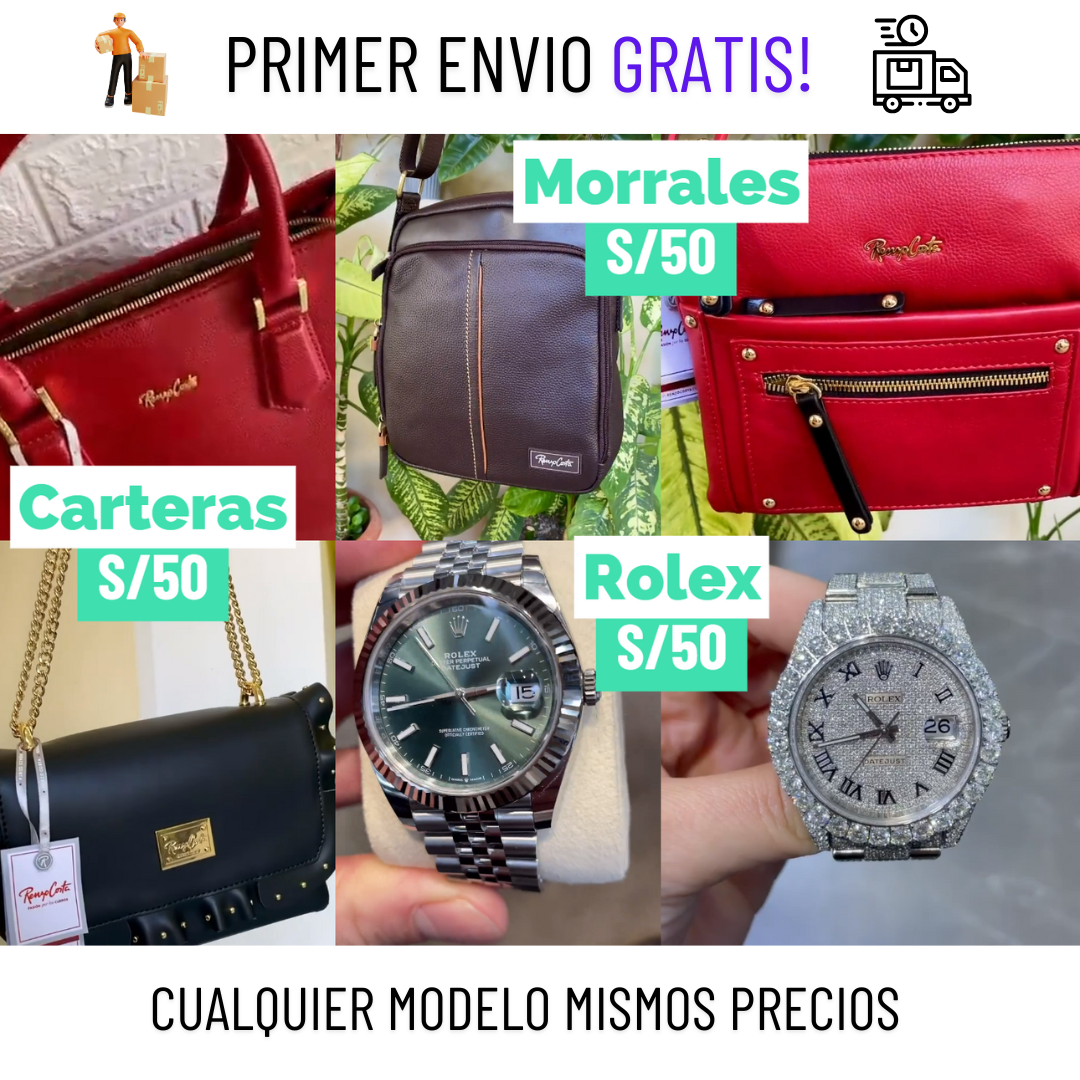
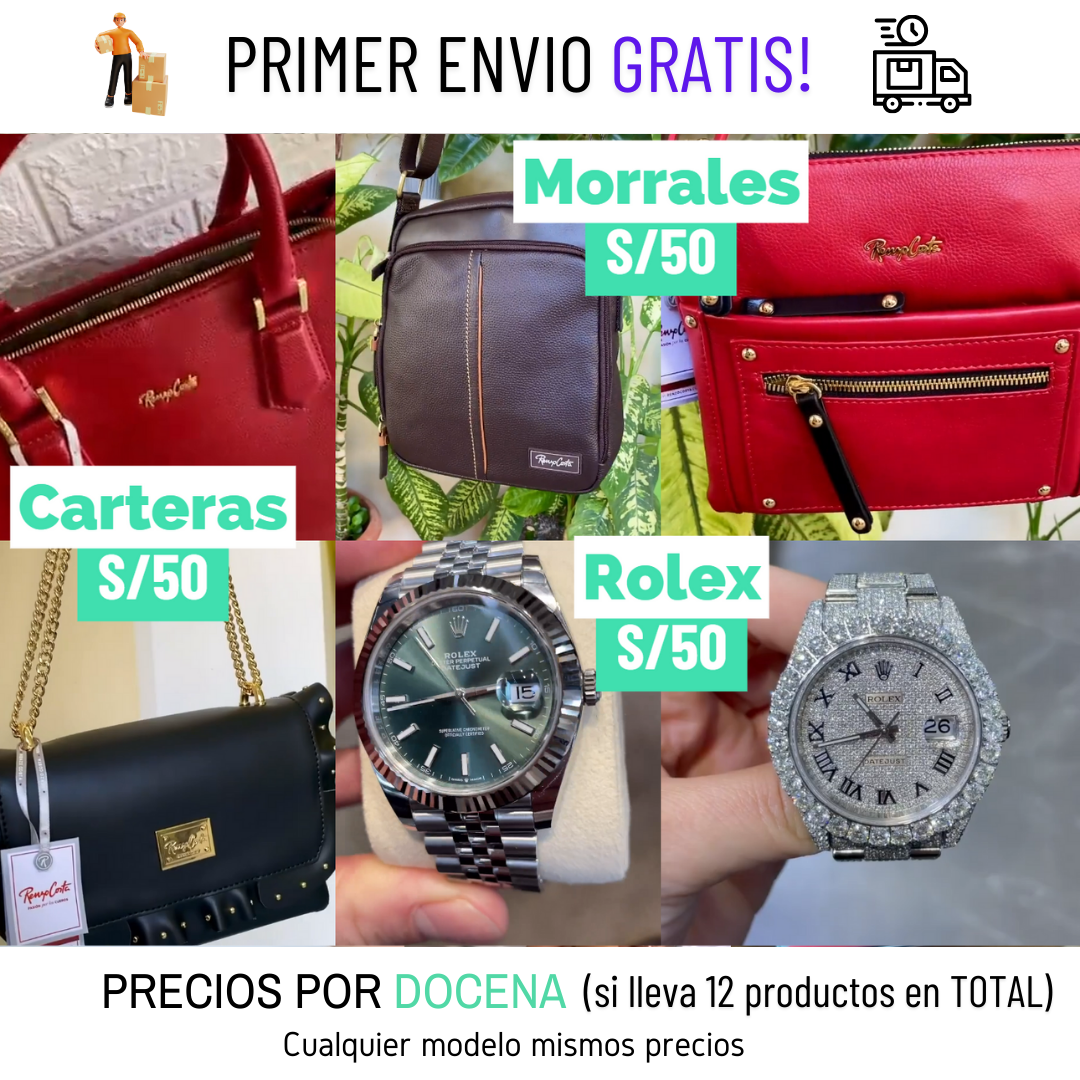
Add files via upload

Changed region(s): [[0.0917, 0.8861, 0.9778, 0.9778]]

diff --git a/server.py b/server.py
@@ -31,6 +31,7 @@ tienda_lock_file = tienda_file + ".lock"
 pdf_names = [
     "CHEQUERAS de Caballero.pdf",
     "RELOJES de Caballero.pdf",
+    "MONEDEROS de Dama.pdf",
     "BILLETERAS de Dama.pdf",
     "CHEQUERAS de Dama.pdf",
     "CARTERAS.pdf"
@@ -635,10 +636,10 @@ def send_tienda_messages(sender):
         time.sleep(1)
 
         # Enviar el video con su caption
-        video_name = "impuestos.mp4"
-        video_caption = """🤩Trabajamos en la *Zona Franca del Perú* pues es zona *LIBRE DE IMPUESTOS* 🥳✨🫱🏻🫲🏻"""
-        send_video(sender, video_name, caption=video_caption)
-        time.sleep(1)
+        #video_name = "impuestos.mp4"
+        #video_caption = """🤩Trabajamos en la *Zona Franca del Perú* pues es zona *LIBRE DE IMPUESTOS* 🥳✨🫱🏻🫲🏻"""
+        #send_video(sender, video_name, caption=video_caption)
+        #time.sleep(1)
 
         # Enviar la 3er imagen con su caption
         image3_name = "tienda3.jpeg"
@@ -672,13 +673,13 @@ def send_welcome_pdfs_videos_to_client(sender):
 
         # Enviar MIX_1
         image4_name = "mix1.png"
-        image4_caption = "▫⌚Relojes: *50 soles*\n▫👜Carteras: *50 soles*\n▫💼Morrales: *50 soles*"
+        image4_caption = "💚Precios *POR DOCENA*\n▫⌚Relojes: *50 soles*\n▫👜Carteras: *50 soles*\n▫💼Morrales: *50 soles*"
         send_image(sender, image4_name, image4_caption)
         time.sleep(1)
 
         # Enviar MIX_2
         image5_name = "mix2.png"
-        image5_caption = "▫ Billeteras: *20 soles*\n▫👝Chequeras: *30 soles*\n▫👛Monederos: *15 soles*\n▫Correas: *30 soles*"
+        image5_caption = "💚Precios *POR DOCENA*\n▫ Billeteras: *20 soles*\n▫👝Chequeras: *30 soles*\n▫👛Monederos: *15 soles*\n▫Correas: *30 soles*"
         send_image(sender, image5_name, image5_caption)
         time.sleep(1)
 
